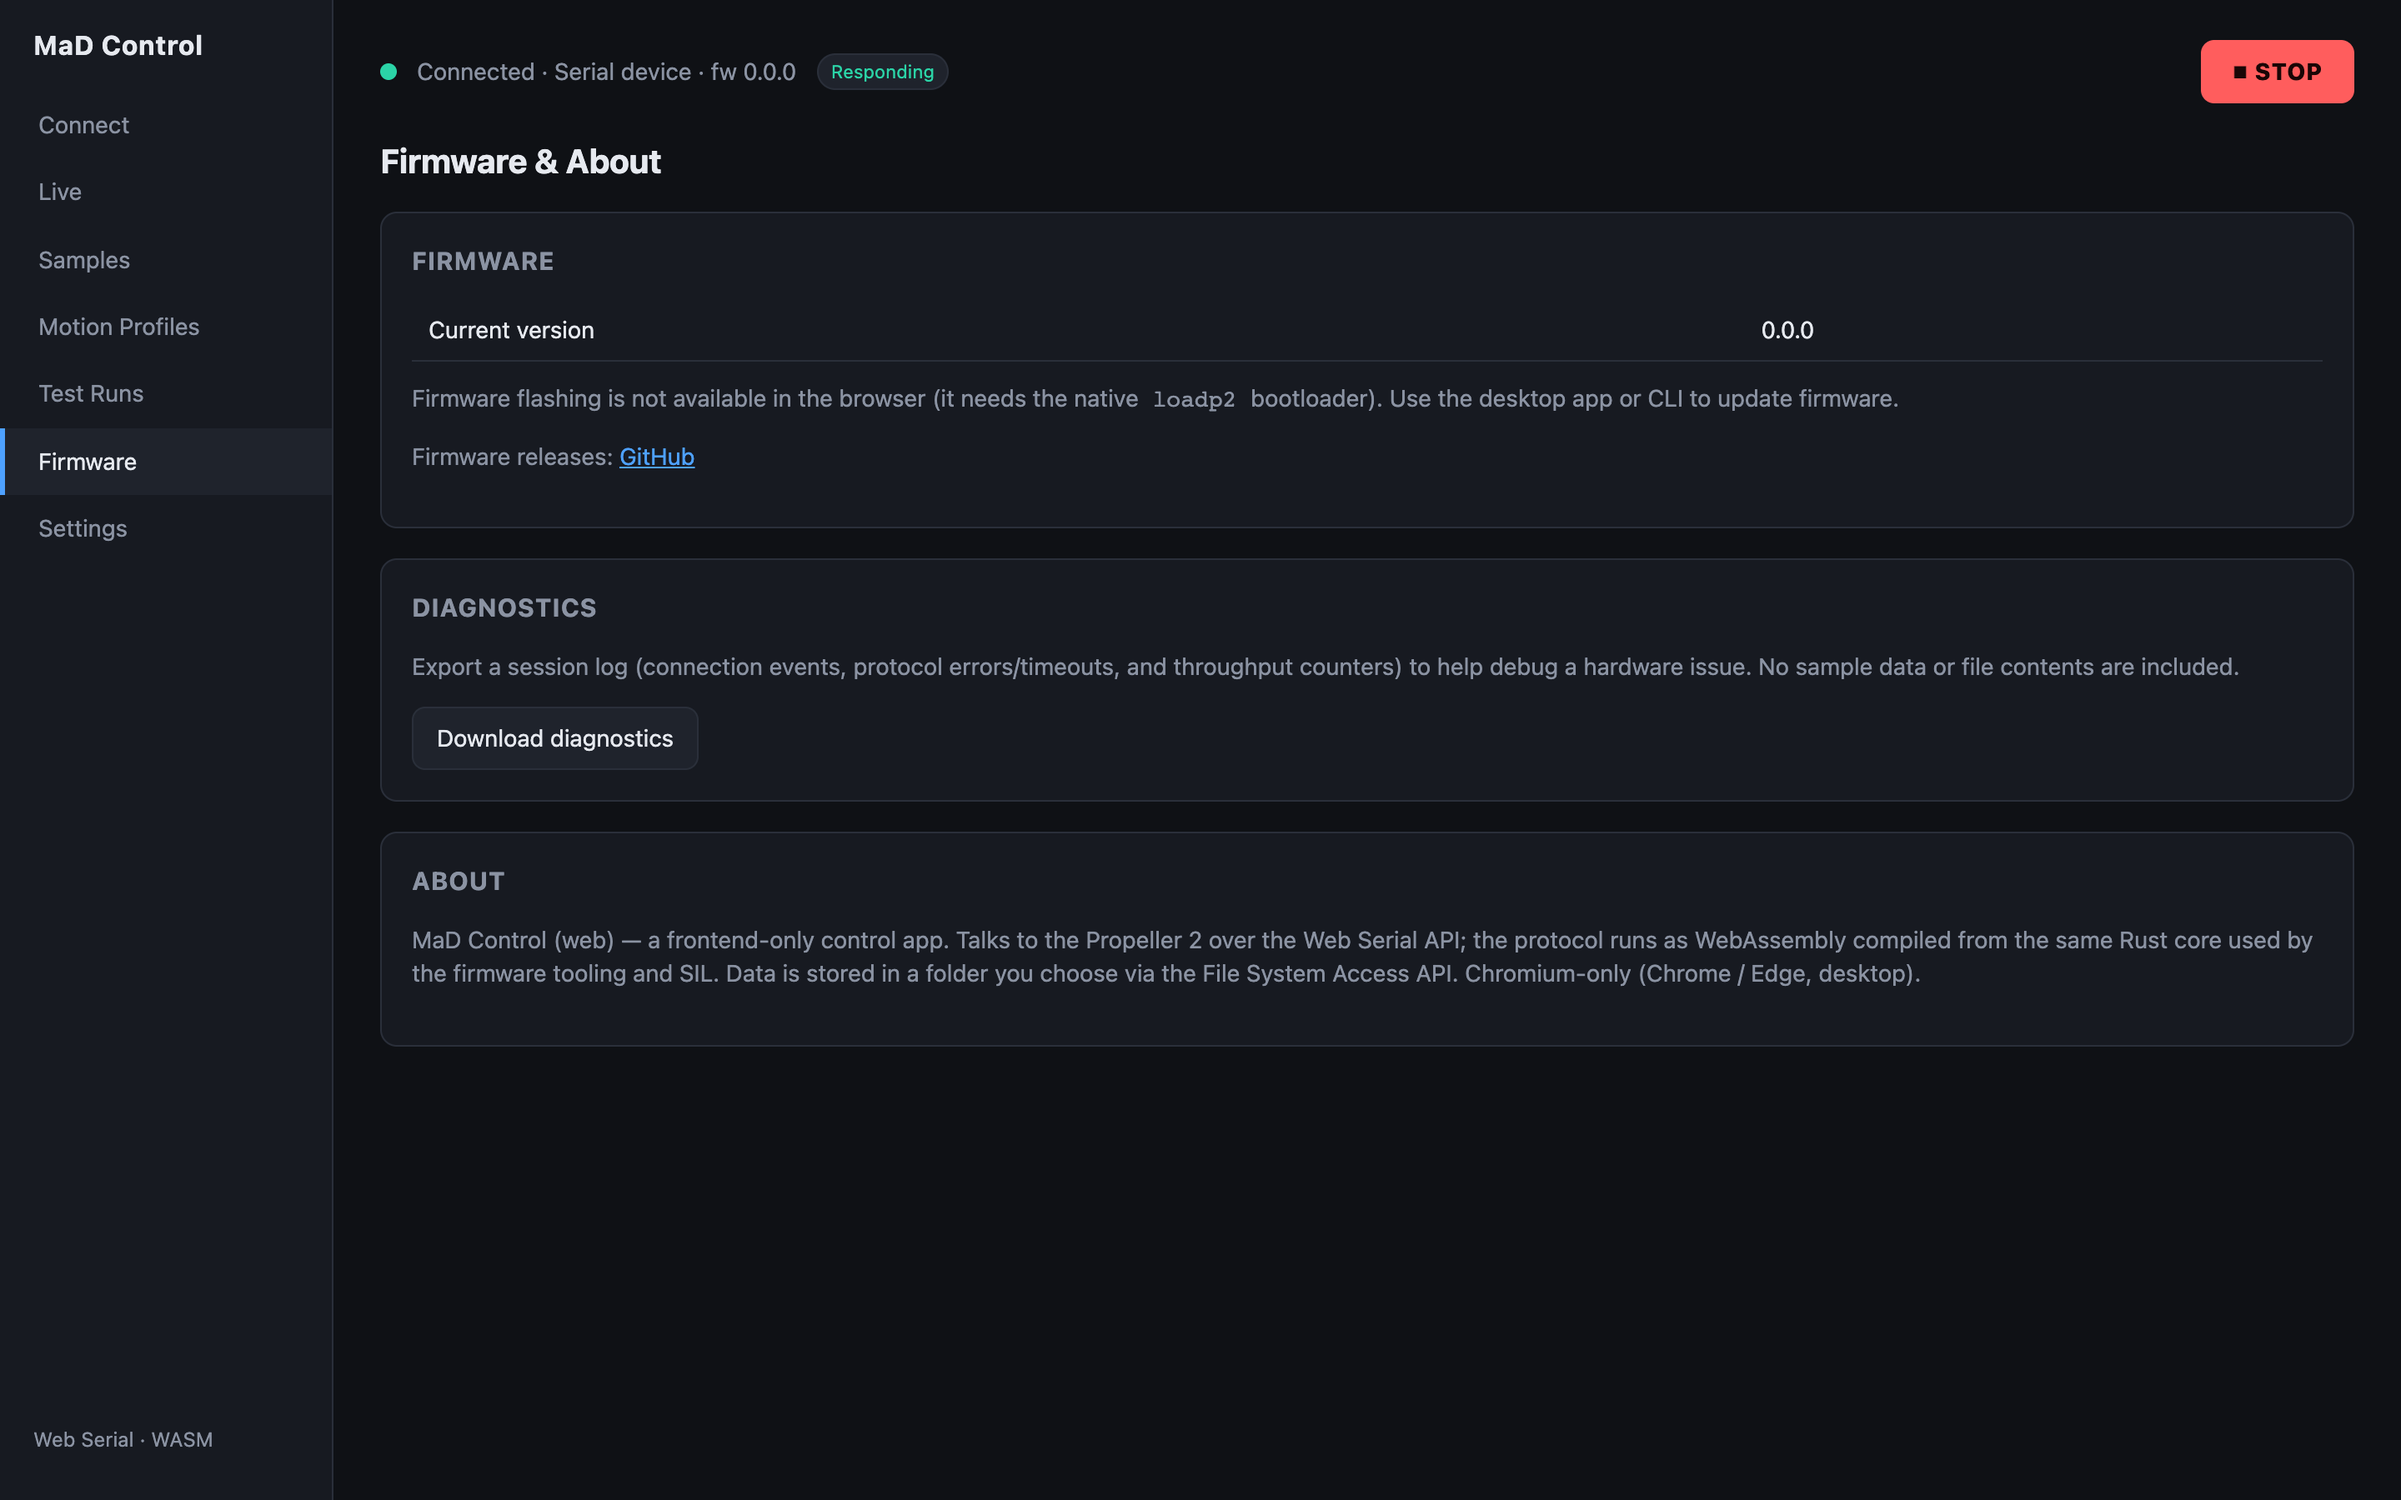
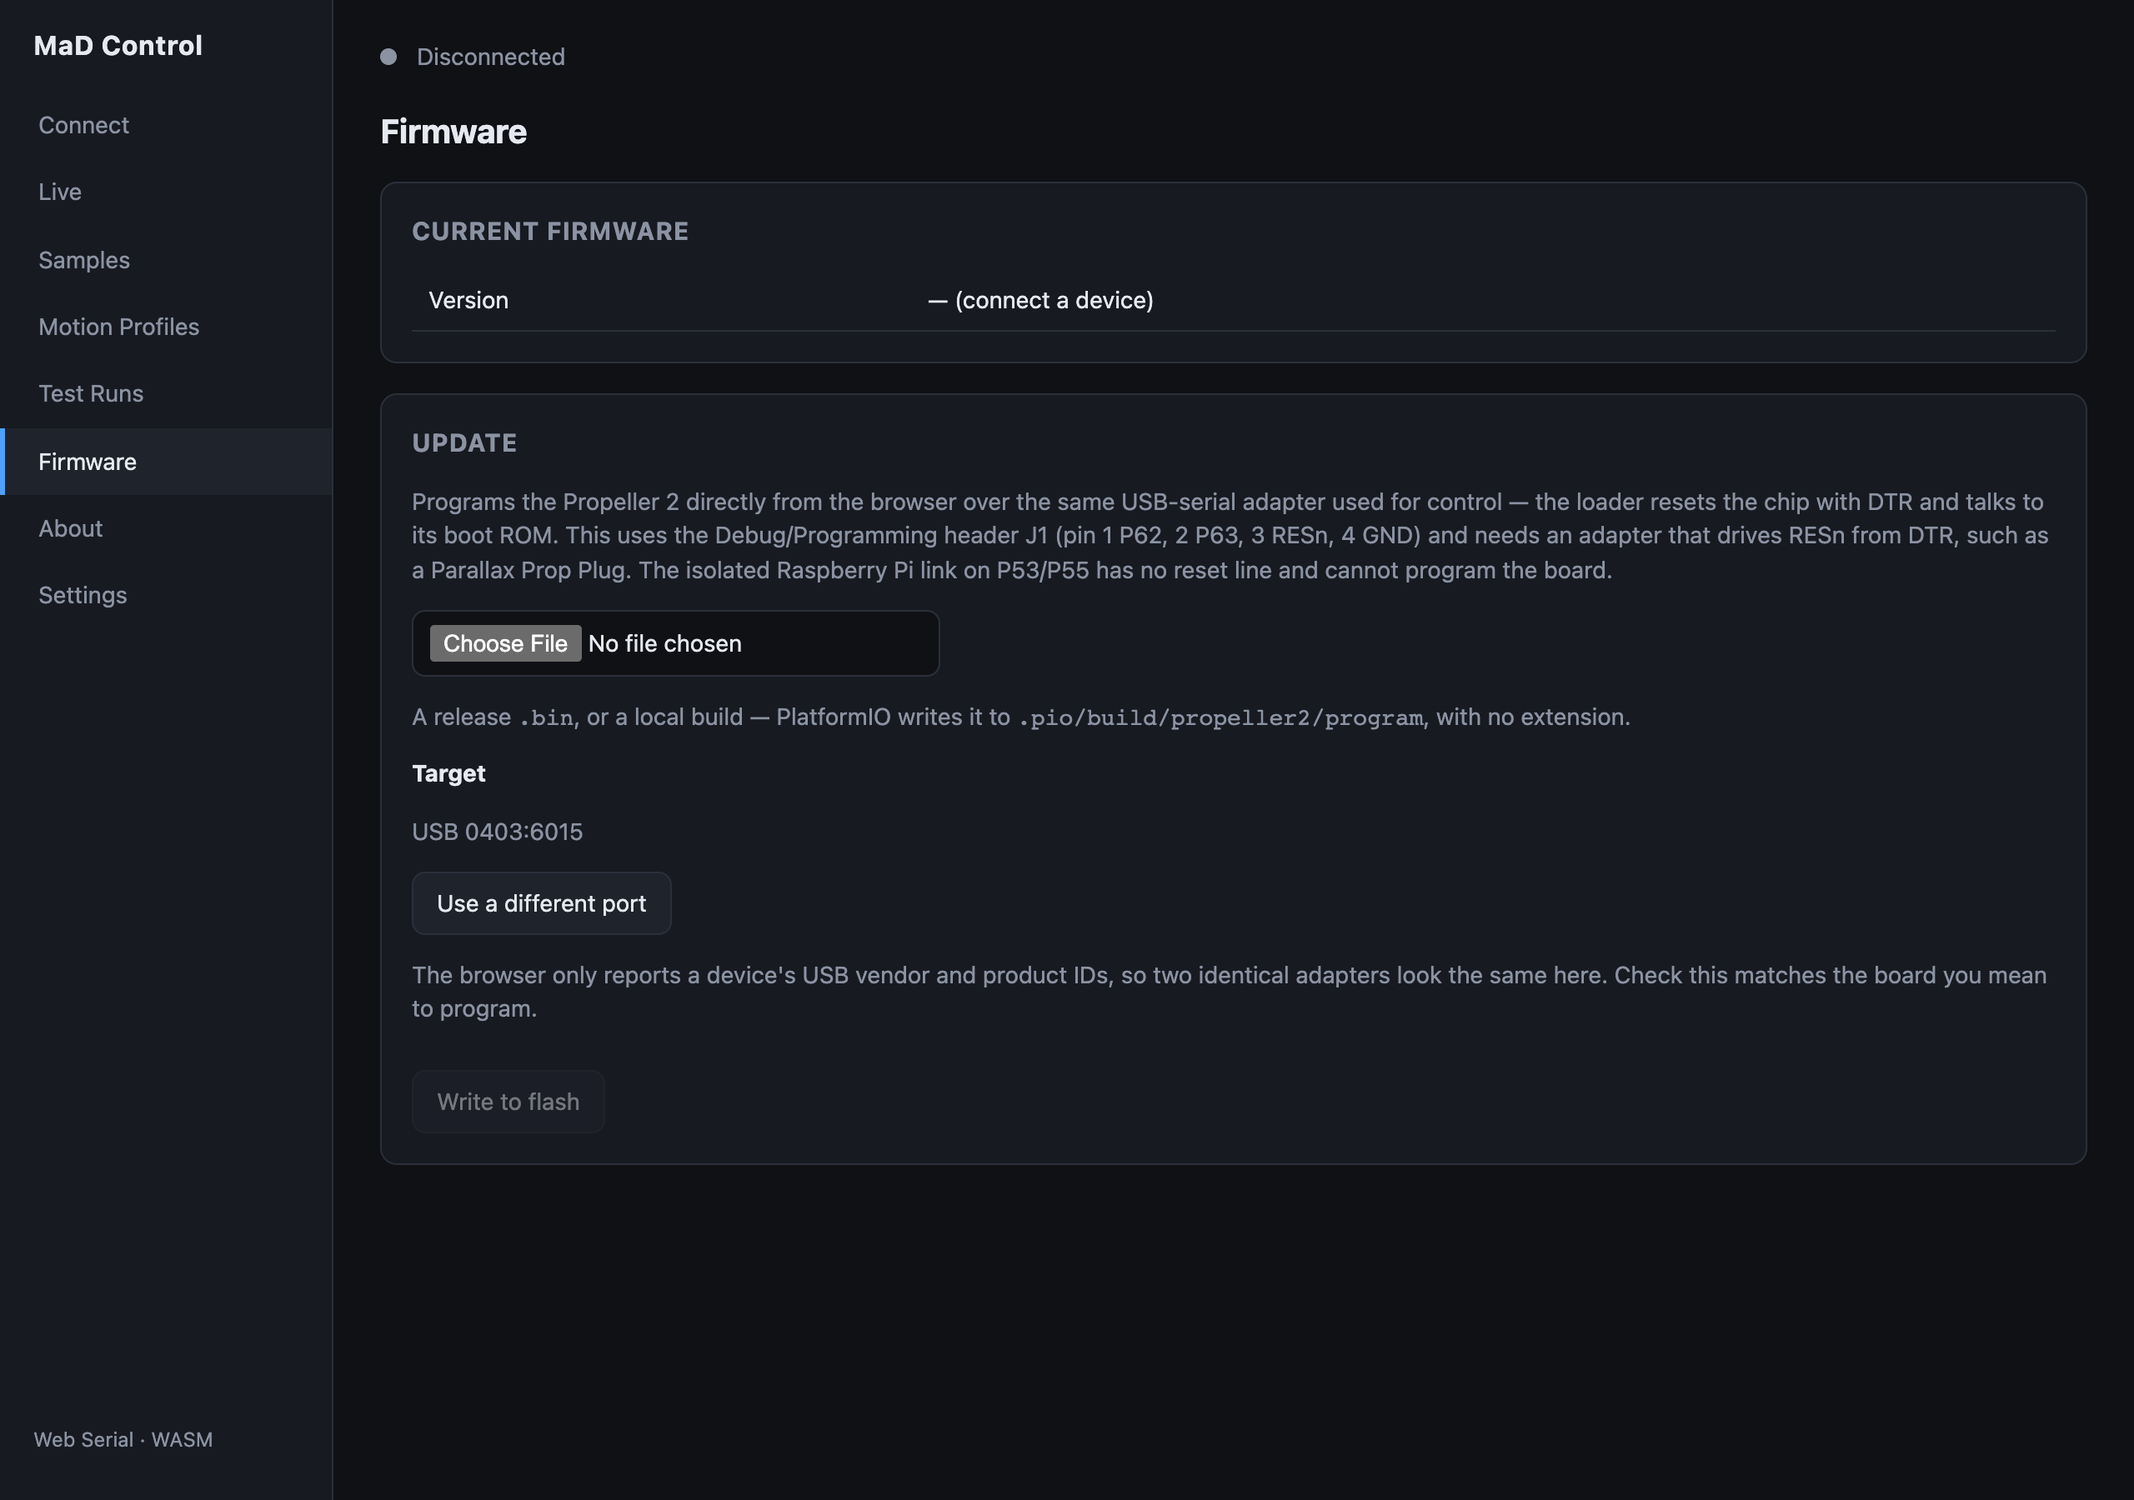
docs(control): recapture the firmware screenshot and fold flashing into the summaries
Review follow-ups on #68.

The screenshot was stale because the capture script pointed at #/about and saved
the result as 09-firmware.png — so the docs led with the old combined page while
the prose described the new one. capture-screenshots.mjs now shoots #/firmware
for that file and captures About separately as 10-about.png. Recaptured against
the flash-only UI: single Write to flash, Target line, no mode radios.

Firmware was missing from both summaries a new operator actually reads. The
60-second version in getting-started/index.md jumped Connect -> Live, which a
blank board never reaches (it shows Connected but never Responding), and
operators.md still closed on "connect -> profile -> run -> analyse". Both now
include the firmware step.

Recapturing also exposed unrelated drift: the page intro claimed the Firmware
screen "exports a diagnostics bundle", which the screenshot visibly contradicts
— diagnostics moved to About. Corrected the intro. The "Diagnostics export"
section further down is stale for the same reason (About now has a "Report a
bug" flow, not a "Download diagnostics" button) but that predates this PR and
describes a feature I have not read, so I have left it alone rather than guess.

diff --git a/docs/getting-started/index.md b/docs/getting-started/index.md
@@ -34,6 +34,9 @@ relies on the Web Serial and File System Access browser APIs. Check the
 1. Open the app: **<https://rileymccarthy.github.io/MaD/app/>** in Chrome or Edge.
 2. Plug the machine into your computer over USB and power it on.
 3. Go to **Connect**, click **Connect device**, and pick the serial port.
-4. Watch live data on the **Live** screen, or build and run a test.
+4. Open **Firmware** and check the version. A board that has never been
+   programmed shows **Connected** but never **Responding** — flash it here
+   first.
+5. Watch live data on the **Live** screen, or build and run a test.
 
 The full, screenshot-led walkthrough is in [For operators](operators.md).

diff --git a/docs/user-guide/firmware-and-diagnostics.md b/docs/user-guide/firmware-and-diagnostics.md
@@ -1,10 +1,10 @@
 # Firmware & diagnostics
 
 The **Firmware** screen shows the firmware version reported by the connected
-machine, lets you update that firmware, and exports a diagnostics bundle for
-troubleshooting.
+machine and lets you update it. Diagnostics for troubleshooting live on the
+**About** screen.
 
-![The Firmware / About screen](../assets/screenshots/09-firmware.png)
+![The Firmware screen](../assets/screenshots/09-firmware.png)
 
 ## Firmware version
 

diff --git a/docs/getting-started/operators.md b/docs/getting-started/operators.md
@@ -136,5 +136,5 @@ check whenever you update the app, since the two travel together.
 
 ---
 
-That's the full loop: **connect → profile → run → analyse**. The
-[User Guide](../user-guide/index.md) covers every screen in detail.
+That's the full loop: **connect → check firmware → profile → run → analyse**.
+The [User Guide](../user-guide/index.md) covers every screen in detail.
